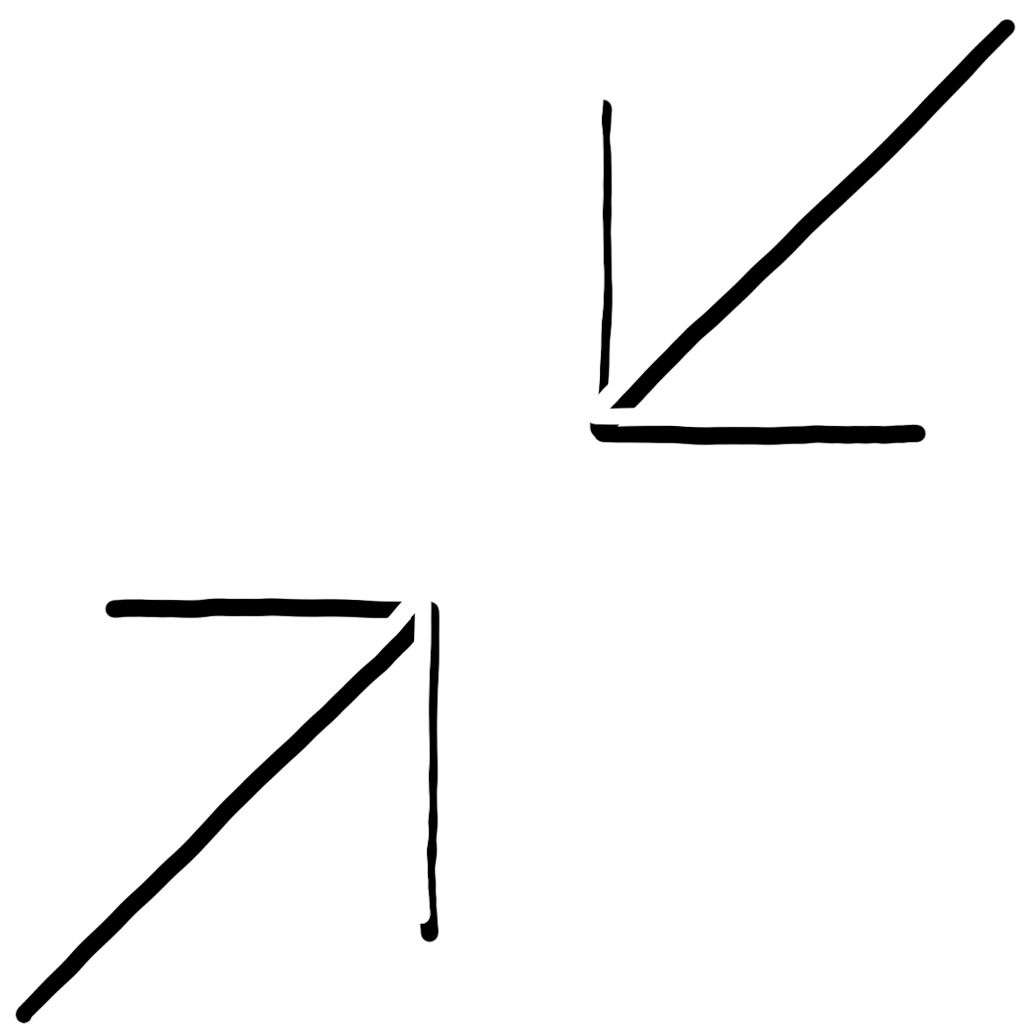
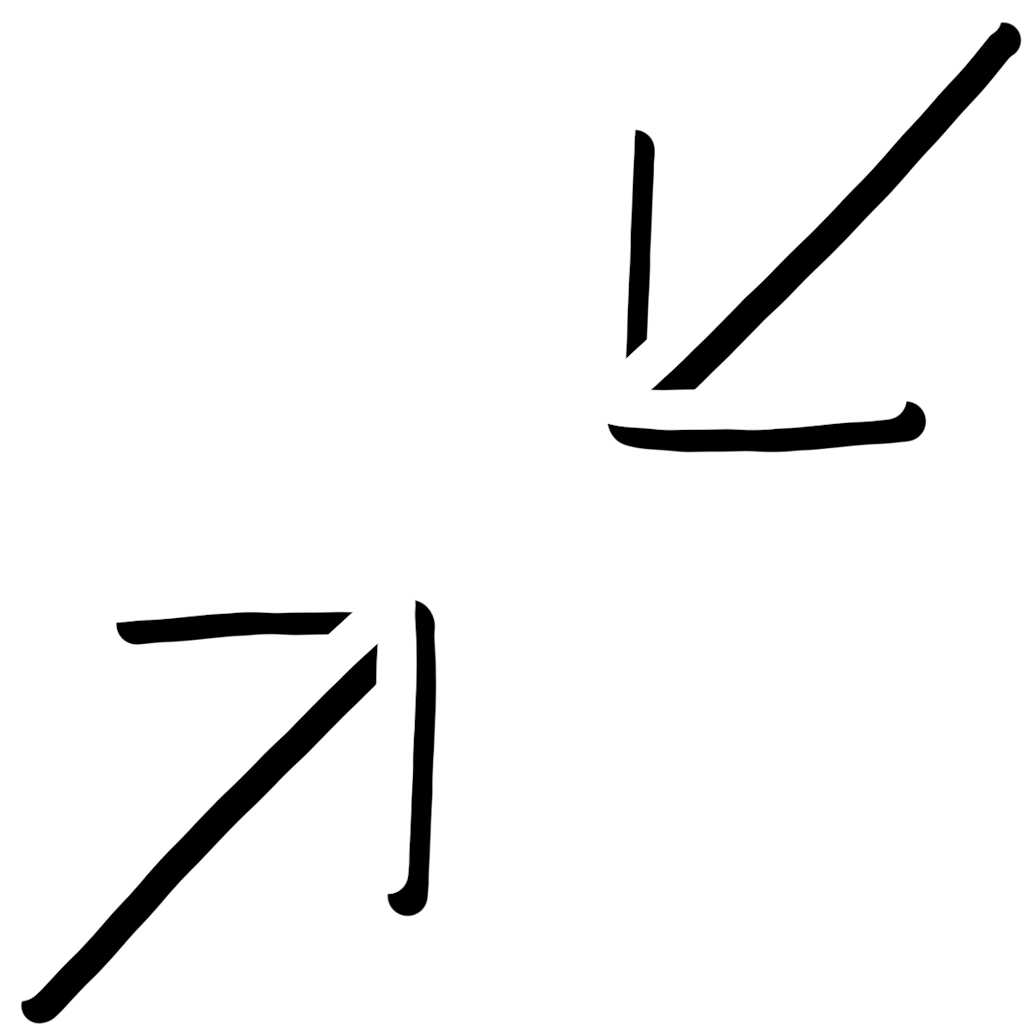
fullscreen buttons sprites replaced

Changed region(s): [[0.5625, 0.0, 1.0, 0.4688], [0.0, 0.5625, 0.4375, 1.0]]

diff --git a/Docs/TODO.md b/Docs/TODO.md
@@ -1,9 +1,7 @@
 # ITER
-[] reverse.ending writing
 [] review
-	[] return the logo to the splash screen
 	[] hide outside.window when entering the club
-	[] change leaves.window sprite
+	[] return the logo to the splash screen
 	[] change projector.club's cookie
 	[] new fullscreen icon
 	[] outside light's position
@@ -11,10 +9,12 @@
 		[] poster - lights up the poster
 		[] cigs - the other side of the room
 		[x] + color (room light's color)
+	[x] change leaves.window sprite
 	[x] change outside.window colors
 	[x] change the outside quad color
 [] Run in background - true
 	[] splash must wait for focus
+[x] reverse.ending writing
 [x] выключать poster overlay
 	[x] либо когда ShaderSauce.Strength <= 0f
 	[DENY] либо во время сигарет
